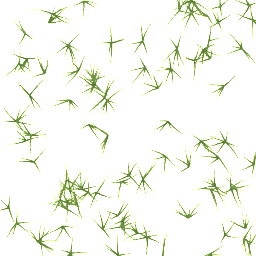
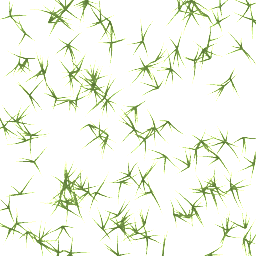
Denser grass: smaller cards, fuller textures, quality density, cheaper shader; F8 GPU probe (build 102)
Claude-Session: https://claude.ai/code/session_01Lp4BdAEwUFHKjaufRuJ5M3

diff --git a/tools/make_grass_textures.py b/tools/make_grass_textures.py
@@ -133,8 +133,8 @@ def main():
     args = parser.parse_args()
     os.makedirs(args.out, exist_ok=True)
     rng = np.random.default_rng(77)
-    finish(cover((256, 256), 85, rng), (256, 256), os.path.join(args.out, "ground_cover.png"))
-    finish(tuft((256, 256), 46, 0.45, 0.98, rng), (256, 256), os.path.join(args.out, "grass_short.png"))
+    finish(cover((256, 256), 120, rng), (256, 256), os.path.join(args.out, "ground_cover.png"))
+    finish(tuft((256, 256), 70, 0.45, 0.98, rng, spread=0.8), (256, 256), os.path.join(args.out, "grass_short.png"))
     finish(tuft((128, 256), 30, 0.5, 1.0, rng, seeds=5, spread=0.7), (128, 256), os.path.join(args.out, "grass_tall.png"))
 
 

diff --git a/ART_DIRECTION.md b/ART_DIRECTION.md
@@ -129,3 +129,10 @@ What changed (client look only, no model or save format change):
 Cost at Low: no new textures, no new draws. About 6 extra shader operations per leaf pixel and 4 per bark pixel; one extra varying. Not measurable in the cloud (stills only), to be confirmed in Dave's frame probe.
 
 Still open for step 4: far-tree impostors (LOD format needs Technical direction approval, joint with Ground loading item 6).
+
+## 14. Denser grass, round two (build 102, Dave: "we need much more grass")
+
+Findings: grass is already built once per 6 m ground cell (one MultiMesh per layer per cell, kept until the cell leaves the radius, no per-frame rebuild or buffer rewrite) and each layer shares ONE clump mesh and ONE material for all cells. Shadows are already off for grass. So the cost is GPU fill and shading, not CPU or re-uploads. Dave's High screenshot: cpu 1.7 ms, gpu 28.3 ms, 11,929 grass cards.
+Changes: smaller, more numerous cards (cover 6, short 8, tall 3 per ground sample before the quality factor; short cards 2 crossed quads instead of 3, 0.55 by 0.34 m), fuller textures (70 blades per short card, 120 per cover card), quality density factor (Low 0.45, Medium 0.65, High 0.75, Ultra 0.85), more ground samples (Medium 5, High 6, Ultra 7 per 6 m side), short layer drawn to 70% of the radius (was 85%), cover layer to 60% (was 50%). Shader: diffuse_lambert instead of burley, back-light only on tall grass.
+Test clearing cards at High: 55,000 at density 1.0 (build 97: 22,000); shipped at 0.75, about 41,000.
+Measuring: F8 in game (GPU probe) lists GPU ms with grass off, trees off, ground off, sea off, shadows off, SSAO off, glow off, fog off and AA off. Real per-tier cost needs that table from Dave's machine; the cloud only renders stills.

diff --git a/CONTROLS.md b/CONTROLS.md
@@ -18,6 +18,7 @@ Tracks what the controls are now and what is planned. Update it whenever a contr
 | + / - (also numpad) | Raise or lower how much every spring pours, by about 10 % per press (tuning tool, x0.5 to x20; above x1 rivers and ponds turn muddy brown). Shows "Water flow rate: x1.21 = 12.1 m3/s per spring (191,800 gal/min)" for 3 seconds. The water then runs by real physics for two simulated hours ("running...") and redraws as it moves |
 | X | Admin: dig a 2 m hole where the crosshair meets the ground (up to 80 m away). Water flows into holes that open toward it (testing digging against the water) |
 | F2 | Cycle quality: Low, Medium, High, Ultra (Low is the minimum machine) |
+| F8 | GPU probe: stand still, press once; after about 20 s it lists what each piece (grass, trees, ground, sea, shadows, SSAO, glow, fog, anti-aliasing) costs in GPU ms; also saved to gpu_probe.txt in the game data folder |
 | J | Float jitter test: fly to the next far-from-origin spot (admin test, build 68) |
 | Esc | Options menu: Resume, Settings (quality, VSync, sound volume 100/75/50/25 % or off), Advanced (Clear saved ground, which takes effect at once), Quit game. Esc again resumes |
 
